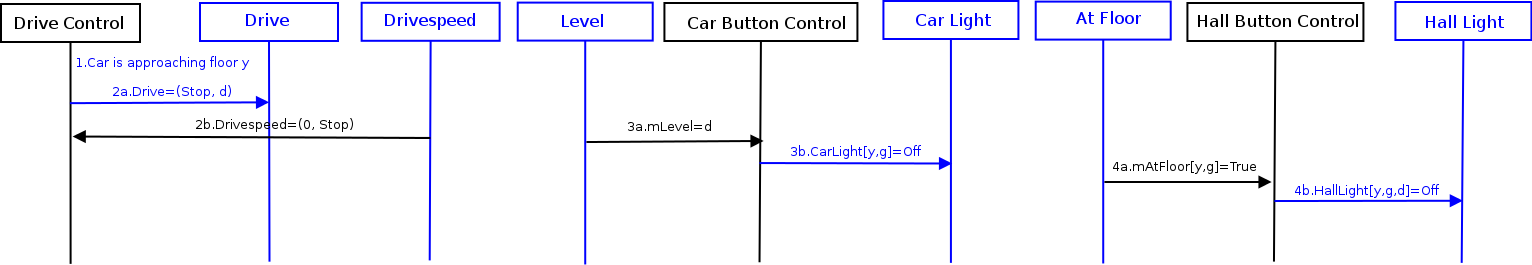
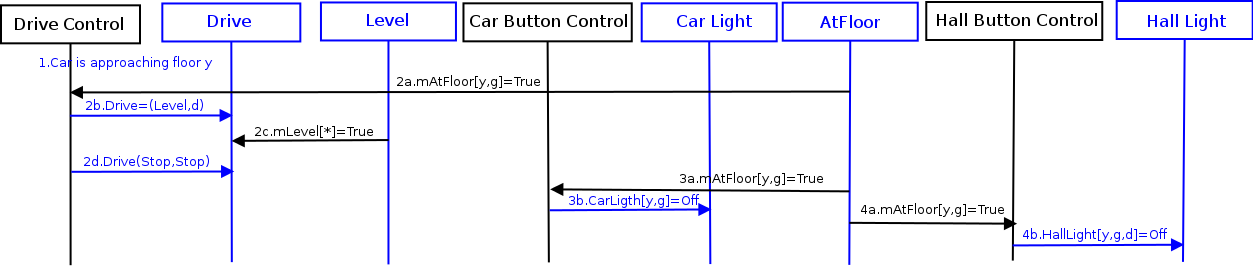
Qiang Update Senario 6A, AtFloor -> DriveControl -> Drive Level -> Drive Control -> Drive

Changed region(s): [[0.0, 0.0, 1.0, 0.9962]]

diff --git a/portfolio/portfolio/scen_sd/scen_sd.html b/portfolio/portfolio/scen_sd/scen_sd.html
@@ -384,7 +384,7 @@ suffice.</p>
 </ul>
 <h3> Sequence Diagram: </h3>
 <p> <a href="Case6.png"><img src="Case6.png" alt="1A" name="_x0000_i1027"
- style="border: 0px solid ; width: 1532px; height: 265px;"></a> </p>
+ style="border: 0px solid ; width: 1253px; height: 266px;"></a> </p>
 
 <p> <a href="proj2_scenario6.gif"><br>
 </a> </p>
